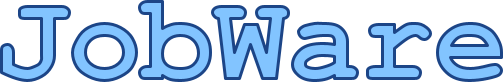
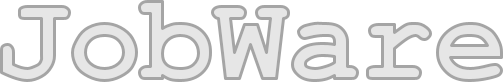
Main menu made, with credits!

diff --git a/game.py b/game.py
@@ -19,7 +19,7 @@ class Game:
         self.played_minigames = [None]
         self.debug_minigame = None # Replace this with the minigame you wanna debug, so if you wanna debug sewing you would set it to "MinigameIds.MGSEWING"
         # When a debug minigame is set, itll skip most of the elevator transition
-
+        self.playing = False # make sure to set this if you have a debug minigame!!!
         self.elevator_size = pr.Vector2(screen_width,screen_height)
         self.transition_tick = 0 # max 181, dont edit if you already have a debug minigame set
         self.text_y_tick = 61
@@ -29,13 +29,18 @@ class Game:
         self.stopwatch_time = 7
         self.text_pos_y = self.screen_height//2
         self.text_size = 250 #40
+        self.title_colors = [pr.Color(165, 203, 242,255),pr.Color(0, 255, 255,255),pr.Color(15, 255, 80,255),pr.Color(76, 187, 23,255),pr.Color(255, 234, 0,255),pr.Color(255, 191, 0,255),pr.Color(255, 49, 49,255)]
+        self.title_angle = 3
+        self.direction = 0
+        self.credits = False
+        self.credits_txt = [line for line in open("credits.txt","r")]
 
     def startup(self):
         pr.init_audio_device()
 
         #i love having to scroll to the end of this to add images - Milo 3/7/25
         # Alt+Z to toggle Word Wrap, makes this MUCH easier - Milo 3/8/25
-        assets = ["assets/Arrow_Up_Key_Light.png","assets/Arrow_Right_Key_Light.png","assets/Arrow_Down_Key_Light.png","assets/Arrow_Left_Key_Light.png","assets/Sewing_Monster_Doll.png","assets/Sewing_Monster_Doll_Complete.png","assets/Starburst_Explosion.png","assets/Powerwash_Gun.png","assets/Sidewalk.png","assets/Splat_1.png","assets/Splat_2.png","assets/Splat_Coffee.png","assets/Splat_Stripe.png","assets/Sparkles.png","assets/computer.png","assets/background.png","assets/electricity.png","assets/Plug.png","assets/wire.png","assets/screen1.png","assets/wire2.png","assets/connect_wire1.png","assets/connect_wire2.png","assets/Elevator.png","assets/Timer.png","assets/PCB.png","assets/Solder.png","assets/Solder_Iron.png","assets/LED_Off.png","assets/LED_On.png","assets/Check.png","assets/Important.png","assets/Wrong.png","assets/D_Key_Light.png","assets/F_Key_Light.png","assets/J_Key_Light.png","assets/K_Key_Light.png","assets/Sheet_Music_Transparent.png","assets/Guitar_1_3_7.mp3","assets/Guitar_2.mp3","assets/Guitar_4_6.mp3","assets/Guitar_5.mp3","assets/Guitar_8.mp3","assets/Guitar_9.mp3","assets/tape.png","assets/tapedWire.png","assets/lasttaskbg.png","assets/screen2.png","assets/Mouse_Left_Key_Light.png","assets/JobWare.png"]
+        assets = ["assets/Arrow_Up_Key_Light.png","assets/Arrow_Right_Key_Light.png","assets/Arrow_Down_Key_Light.png","assets/Arrow_Left_Key_Light.png","assets/Sewing_Monster_Doll.png","assets/Sewing_Monster_Doll_Complete.png","assets/Starburst_Explosion.png","assets/Powerwash_Gun.png","assets/Sidewalk.png","assets/Splat_1.png","assets/Splat_2.png","assets/Splat_Coffee.png","assets/Splat_Stripe.png","assets/Sparkles.png","assets/computer.png","assets/background.png","assets/electricity.png","assets/Plug.png","assets/wire.png","assets/screen1.png","assets/wire2.png","assets/connect_wire1.png","assets/connect_wire2.png","assets/Elevator.png","assets/Timer.png","assets/PCB.png","assets/Solder.png","assets/Solder_Iron.png","assets/LED_Off.png","assets/LED_On.png","assets/Check.png","assets/Important.png","assets/Wrong.png","assets/D_Key_Light.png","assets/F_Key_Light.png","assets/J_Key_Light.png","assets/K_Key_Light.png","assets/Sheet_Music_Transparent.png","assets/Guitar_1_3_7.mp3","assets/Guitar_2.mp3","assets/Guitar_4_6.mp3","assets/Guitar_5.mp3","assets/Guitar_8.mp3","assets/Guitar_9.mp3","assets/tape.png","assets/tapedWire.png","assets/lasttaskbg.png","assets/screen2.png","assets/Mouse_Left_Key_Light.png","assets/JobWare.png", "assets/Scroll.png"]
         iteration = 0
 
         for key in ResourceType:
@@ -48,90 +53,131 @@ class Game:
                 pr.unload_image(image)
             iteration+=1
 
+        pr.begin_texture_mode(self.transition)
+
+        pr.clear_background(pr.WHITE)
+        pr.draw_rectangle(455,39,191,657,pr.Color(188,188,188,255))
+        pr.draw_rectangle(646,39,191,657,pr.Color(188,188,188,255))
+        pr.draw_texture_pro(
+            self.resources[ResourceType.TEXTURE_MAIN_ELEVATOR],
+            pr.Rectangle(0,0,self.resources[ResourceType.TEXTURE_MAIN_ELEVATOR].width,self.resources[ResourceType.TEXTURE_MAIN_ELEVATOR].height),
+            pr.Rectangle(self.screen_width//2,self.screen_height//2,self.screen_width,self.screen_height),
+            pr.Vector2(self.screen_width/2,self.screen_height/2),
+            0,
+            pr.WHITE
+        )
+        pr.end_texture_mode()
+
     def update(self):
         if pr.is_mouse_button_pressed(pr.MOUSE_RIGHT_BUTTON):
             print(pr.get_mouse_position().x,pr.get_mouse_position().y)
-        if self.transition_tick != 181:
-            if self.debug_minigame != None and self.transition_tick == 0:
-                self.transition_tick = 109
-
-            self.transition_tick+=1
-
-            if self.transition_tick < 0:
-                # print(print(self.elevator_size.y))
-                # print(1/0) intentionally causing errors is a real good way to get values :D . Python debugger? Never heard of her
-                self.elevator_size = pr.vector2_add(self.elevator_size,pr.Vector2(-51.37,-28.9)) #fresh value, guess where it came from?
-                self.door_width += 16
-                self.stopwatch_color = pr.WHITE
-            # i wish i knew about texture mode before, im going to crash out
-            pr.begin_texture_mode(self.transition)
-
-            pr.clear_background(pr.WHITE)
-            #Door, Top left (455, 40), Top right (836,39), Bottom Right (836, 695), Bottom Left (454, 695)
-            # pr.draw_rectangle(391,183,int(self.door_width),537,pr.Color(188,188,188,255))
-            pr.draw_rectangle(455,39,self.door_width,657,pr.Color(188,188,188,255))
-            pr.draw_rectangle(837+(-self.door_width),39,self.door_width,657,pr.Color(188,188,188,255)) # I have no clue what possesed me to think of that math for the door
-            pr.draw_texture_pro(
-                self.resources[ResourceType.TEXTURE_MAIN_ELEVATOR],
-                pr.Rectangle(0,0,self.resources[ResourceType.TEXTURE_MAIN_ELEVATOR].width,self.resources[ResourceType.TEXTURE_MAIN_ELEVATOR].height),
-                pr.Rectangle(self.screen_width//2,self.screen_height//2,self.screen_width,self.screen_height),
-                pr.Vector2(self.screen_width/2,self.screen_height/2),
-                0,
-                pr.WHITE
-            )
-            pr.end_texture_mode()
-            if self.transition_tick >= 110:
-                if self.transition_tick == 110:
-                    if self.debug_minigame != None:
-                        proposed_minigame = self.debug_minigame.value
-                    else:
-                        proposed_minigame = self.played_minigames[0]
-
-                    while proposed_minigame in self.played_minigames:
-                        proposed_minigame = random.randint(1,5) # second value is number of completed minigames
-
-                    match proposed_minigame: # I want current_minigame to be assigned a new Minigame class, and this does that I think, but I feel like there should be a better way...
-                        case MinigameIds.MGSEWING.value:
-                            self.current_minigame = MgSewing(self.resources, self.screen_width, self.screen_height)
-                        case MinigameIds.MGPOWERWASH.value:
-                            self.current_minigame = MgPowerwash(self.resources, self.screen_width, self.screen_height)
-                        case MinigameIds.MGELECTRICIAN.value:
-                            self.current_minigame = MgElectrician(self.resources, self.screen_width, self.screen_height)
-                        case MinigameIds.MGSOLDER.value:
-                            self.current_minigame = MgSolder(self.resources, self.screen_width, self.screen_height)
-                        case MinigameIds.MGMUSIC.value:
-                            self.current_minigame = MgMusic(self.resources,self.screen_width,self.screen_height)
-                        case _:
-                            print("someone messed up")
-                    self.text_size = 250
-                    self.text_pos_y = 360
-                    self.current_minigame.update()
-                if not self.transition_tick > 129:
-                    self.door_width -= 15
-                if not self.text_size < 60:
-                    self.text_size -= 15
-                if self.transition_tick > 120:
-                    self.elevator_size = pr.vector2_add(self.elevator_size,pr.Vector2(16,9))
-                    if self.transition_tick == 180:
-                        self.current_minigame.time = pr.get_time()
-                        self.text_y_tick = 0
-        elif self.current_minigame != None:
-            self.current_minigame.update()
-            self.stopwatch_time = round(self.current_minigame.max_time-(pr.get_time()-self.current_minigame.time),2)
-            if self.current_minigame.win:
-                self.stopwatch_color = pr.GREEN
-            else:
-                if self.stopwatch_time < 0:
-                    self.stopwatch_color = pr.RED
-
-            if self.stopwatch_time < -0.4:
-                self.played_minigames[0] = self.current_minigame.id.value
-                self.current_minigame = None
-                self.transition_tick = -20
         
-        if self.text_y_tick!=61:
-            self.text_pos_y-=15
-            self.text_y_tick+=1
+        if not self.playing:
+
+            if pr.check_collision_recs(pr.Rectangle(540,500,200,120),pr.Rectangle(pr.get_mouse_x(),pr.get_mouse_y(),2,2)):
+                pr.set_mouse_cursor(4)
+                if pr.is_mouse_button_pressed(pr.MOUSE_LEFT_BUTTON):
+                    self.playing = True
+                    pr.set_mouse_cursor(0)
+            elif pr.check_collision_circles(pr.Vector2(1235,45),39,pr.get_mouse_position(),2):
+                pr.set_mouse_cursor(4)
+                if pr.is_mouse_button_pressed(pr.MOUSE_LEFT_BUTTON):
+                    if self.credits: self.credits = False
+                    else: self.credits = True
+                    pr.set_mouse_cursor(0)
+            else:
+                pr.set_mouse_cursor(0)
+
+            if self.direction == 0:
+                self.title_angle -= 0.03
+                if self.title_angle <= 0:
+                    self.direction = 1
+            else:
+                self.title_angle += 0.03
+                if self.title_angle >= 3:
+                    self.direction = 0
+        else:
+            if self.transition_tick != 181:
+                if self.debug_minigame != None and self.transition_tick == 0:
+                    self.transition_tick = 109
+
+                self.transition_tick+=1
+
+                if self.transition_tick < 0:
+                    # print(print(self.elevator_size.y))
+                    # print(1/0) intentionally causing errors is a real good way to get values :D . Python debugger? Never heard of her
+                    self.elevator_size = pr.vector2_add(self.elevator_size,pr.Vector2(-51.37,-28.9)) #fresh value, guess where it came from?
+                    self.door_width += 16
+                    self.stopwatch_color = pr.WHITE
+                # i wish i knew about texture mode before, im going to crash out
+                pr.begin_texture_mode(self.transition)
+
+                pr.clear_background(pr.WHITE)
+                #Door, Top left (455, 40), Top right (836,39), Bottom Right (836, 695), Bottom Left (454, 695)
+                # pr.draw_rectangle(391,183,int(self.door_width),537,pr.Color(188,188,188,255))
+                pr.draw_rectangle(455,39,self.door_width,657,pr.Color(188,188,188,255))
+                pr.draw_rectangle(837+(-self.door_width),39,self.door_width,657,pr.Color(188,188,188,255)) # I have no clue what possesed me to think of that math for the door
+                pr.draw_texture_pro(
+                    self.resources[ResourceType.TEXTURE_MAIN_ELEVATOR],
+                    pr.Rectangle(0,0,self.resources[ResourceType.TEXTURE_MAIN_ELEVATOR].width,self.resources[ResourceType.TEXTURE_MAIN_ELEVATOR].height),
+                    pr.Rectangle(self.screen_width//2,self.screen_height//2,self.screen_width,self.screen_height),
+                    pr.Vector2(self.screen_width/2,self.screen_height/2),
+                    0,
+                    pr.WHITE
+                )
+                pr.end_texture_mode()
+                if self.transition_tick >= 110:
+                    if self.transition_tick == 110:
+                        if self.debug_minigame != None:
+                            proposed_minigame = self.debug_minigame.value
+                        else:
+                            proposed_minigame = self.played_minigames[0]
+
+                        while proposed_minigame in self.played_minigames:
+                            proposed_minigame = random.randint(1,5) # second value is number of completed minigames
+
+                        match proposed_minigame: # I want current_minigame to be assigned a new Minigame class, and this does that I think, but I feel like there should be a better way...
+                            case MinigameIds.MGSEWING.value:
+                                self.current_minigame = MgSewing(self.resources, self.screen_width, self.screen_height)
+                            case MinigameIds.MGPOWERWASH.value:
+                                self.current_minigame = MgPowerwash(self.resources, self.screen_width, self.screen_height)
+                            case MinigameIds.MGELECTRICIAN.value:
+                                self.current_minigame = MgElectrician(self.resources, self.screen_width, self.screen_height)
+                            case MinigameIds.MGSOLDER.value:
+                                self.current_minigame = MgSolder(self.resources, self.screen_width, self.screen_height)
+                            case MinigameIds.MGMUSIC.value:
+                                self.current_minigame = MgMusic(self.resources,self.screen_width,self.screen_height)
+                            case _:
+                                print("someone messed up")
+                        self.text_size = 250
+                        self.text_pos_y = 360
+                        self.current_minigame.update()
+                    if not self.transition_tick > 129:
+                        self.door_width -= 15
+                    if not self.text_size < 60:
+                        self.text_size -= 15
+                    if self.transition_tick > 120:
+                        self.elevator_size = pr.vector2_add(self.elevator_size,pr.Vector2(16,9))
+                        if self.transition_tick == 180:
+                            self.current_minigame.time = pr.get_time()
+                            self.text_y_tick = 0
+            elif self.current_minigame != None:
+                self.current_minigame.update()
+                self.stopwatch_time = round(self.current_minigame.max_time-(pr.get_time()-self.current_minigame.time),2)
+                if self.current_minigame.win:
+                    self.stopwatch_color = pr.GREEN
+                else:
+                    if self.stopwatch_time < 0:
+                        self.stopwatch_color = pr.RED
+
+                if self.stopwatch_time < -0.4:
+                    self.played_minigames[0] = self.current_minigame.id.value
+                    self.current_minigame = None
+                    self.transition_tick = -20
+            
+            if self.text_y_tick!=61:
+                self.text_pos_y-=15
+                self.text_y_tick+=1
 
     def render(self): #i love the saxophone in this goofy punk rock french song https://www.youtube.com/watch?v=zreo9Y3EieA
         if self.current_minigame != None:
@@ -159,6 +205,43 @@ class Game:
             )
         if self.current_minigame != None:
             pr.draw_text(self.current_minigame.instruction,int(self.screen_width//2-(pr.measure_text(self.current_minigame.instruction,self.text_size)/2)),int(self.text_pos_y),self.text_size,pr.BLACK)
+        if not self.playing:
+            pr.draw_rectangle(0,0,1280,720,pr.Color(30,30,30,190))
+            for i in range(6,-1,-1):
+                pr.draw_texture_pro(
+                    self.resources[ResourceType.TEXTURE_JOBWARE],
+                    pr.Rectangle(0,0,self.resources[ResourceType.TEXTURE_JOBWARE].width,self.resources[ResourceType.TEXTURE_JOBWARE].height),
+                    pr.Rectangle(891,150,self.resources[ResourceType.TEXTURE_JOBWARE].width,self.resources[ResourceType.TEXTURE_JOBWARE].height),
+                    pr.Vector2(self.resources[ResourceType.TEXTURE_JOBWARE].width,41),
+                    -i*self.title_angle,
+                    self.title_colors[i]
+                )
+            pr.draw_rectangle(540,500,200,120,pr.BLUE)
+            pr.draw_rectangle_lines_ex(pr.Rectangle(540,500,200,120),5,pr.Color(56, 88, 138,255))
+            pr.draw_text("Play",572,530,60,pr.GREEN)
+            pr.draw_circle(1235,45,39,pr.Color(56, 88, 138,255))
+            pr.draw_circle(1235,45,35,pr.BLUE)
+            pr.draw_texture_pro(
+                self.resources[ResourceType.TEXTURE_SCROLL],
+                pr.Rectangle(0,0,self.resources[ResourceType.TEXTURE_SCROLL].width,self.resources[ResourceType.TEXTURE_SCROLL].height),
+                pr.Rectangle(1210,15,48,59),
+                pr.Vector2(0,0),
+                0,
+                pr.WHITE
+            )
+            if self.credits:
+                pr.draw_rectangle(100,50,1080,620,pr.BLUE)
+                pr.draw_rectangle_lines_ex(pr.Rectangle(100,50,1080,620),5,pr.Color(56, 88, 138,255))
+                pr.draw_text("Credits:",110,60,32,pr.WHITE)
+                for i in range(len(self.credits_txt)):
+                    if i>9:
+                        pr.draw_text(self.credits_txt[i],130,250+i*15,12,pr.WHITE)
+                    else:
+                        pr.draw_text(self.credits_txt[i],130,100+i*30,28,pr.WHITE)
+                # pr.draw_text('''Minigame Developement:
+                # \n\tMilo Cummings (Milo-C-6), Lincoln Dabb (LincolnDabb3)''',130,100,28,pr.WHITE)
+                # pr.draw_text("Main Menu, Transition Code:",130,160,28,pr.WHITE)
+                # pr.draw_text("Milo Cummings",150,190,28,pr.WHITE)
 
     def shutdown(self):
         for key in ResourceType:

diff --git a/resource_type.py b/resource_type.py
@@ -51,3 +51,4 @@ class ResourceType(enum.Enum):
     TEXTURE_SCREEN2 = 48
     TEXTURE_LEFT_CLICK = 49
     TEXTURE_JOBWARE = 50
+    TEXTURE_SCROLL = 51
